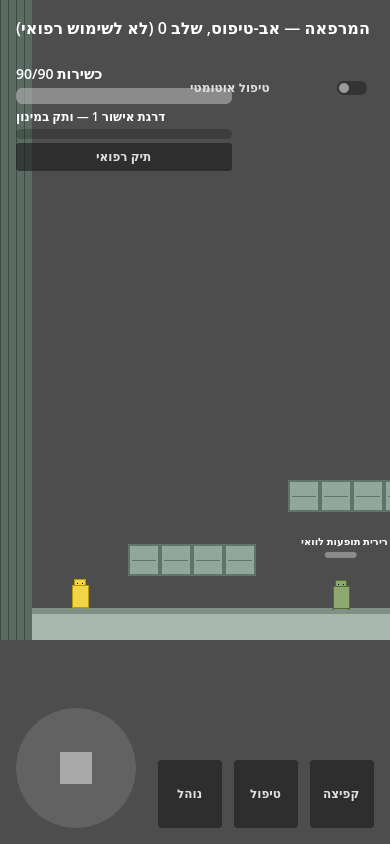
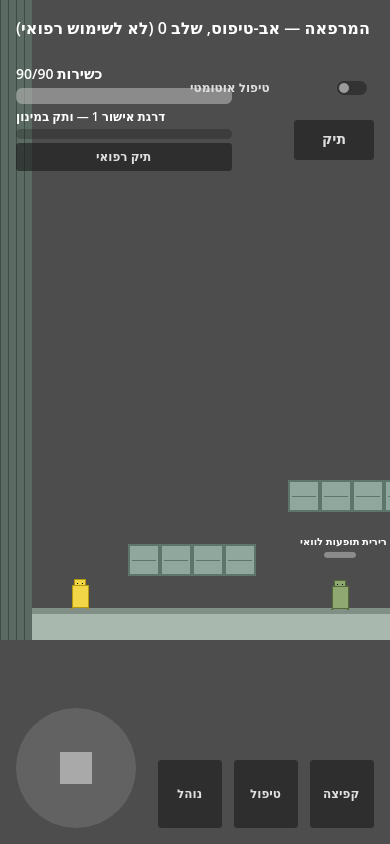
[phase-0][wiring+save] Wire inventory, gear, consumables and save/load into the game
- shared-rules combat.ts: heal(hp, max_hp, amount) (vitest + generated GDScript)
- LocalServer: set_gear_bonus() adds Inventory.equipped_stats() to leveled stats
  (shared _recompute_progression_stats used by register/set_progress/level-up),
  heal() via RulesCombat.heal with a healed signal, set_hp() for save restore
- ClinicLobby: routes Drop.picked_up into the bag (item_picked_up signal), player
  position get/set for saves
- main: Inventory + InventoryPanel instanced, equip → gear bonus, used consumable →
  server heal (stats.hp from items.yaml), autosave every 30 s / on level-up / on window
  close, load on boot; HUD refresh() + healed hook
- items.yaml: consumables carry their heal amount in stats.hp (Q5)
- Inventory open button moved below the auto-attack toggle (was on the title)
- Tests: client/tests/test_game_session.gd (5 end-to-end: pickup, equip, heal,
  quit-and-reload, corrupt save) → 147 GUT; vitest 76 + 7
- TASKS.md: T-0.10/T-0.11/T-0.13 done + QA reports, Q5; PROGRESS.md session 4

Claude-Session: https://claude.ai/code/session_01VW7S9PwdtjaazsarNCuKzi

Changed region(s): [[0.7385, 0.1232, 0.9846, 0.2156], [0.7692, 0.6161, 0.9846, 0.6469], [0.8308, 0.6777, 0.8615, 0.7085]]

diff --git a/packages/shared-rules/tests/combat.test.ts b/packages/shared-rules/tests/combat.test.ts
@@ -1,6 +1,6 @@
 import { describe, expect, it } from "vitest";
 import { CRIT_CHANCE, CRIT_MULT, DEF_SCALE, MIN_DAMAGE } from "../src/_constants.js";
-import { apply_damage, damage, effective_hp, is_dead } from "../src/combat.js";
+import { apply_damage, damage, effective_hp, heal, is_dead } from "../src/combat.js";
 import type { Combatant } from "../src/combat.js";
 import fixture from "./fixtures/combat.json" with { type: "json" };
 
@@ -135,5 +135,18 @@ describe("damage — QA edge cases", () => {
   });
   it("a roll of exactly 1 (out of range) is treated as a non-crit, not an error", () => {
     expect(damage(a, d, 1, 1)).toBe(damage(a, d, 1, 0.5));
+  });
+});
+
+describe("heal", () => {
+  it("adds and clamps to max_hp", () => {
+    expect(heal(10, 50, 15)).toBe(25);
+    expect(heal(45, 50, 15)).toBe(50);
+    expect(heal(50, 50, 1)).toBe(50);
+  });
+  it("floors fractional results and ignores negative amounts", () => {
+    expect(heal(10.4, 50, 0.5)).toBe(10);
+    expect(heal(10, 50, -20)).toBe(10);
+    expect(heal(0, 50, 0)).toBe(0);
   });
 });

diff --git a/packages/shared-rules/src/combat.ts b/packages/shared-rules/src/combat.ts
@@ -43,3 +43,8 @@ export function apply_damage(hp: number, dmg: number): number {
 export function is_dead(hp: number): boolean {
   return hp <= 0;
 }
+
+// Healing: hp after adding `amount`, floored, clamped to [0, max_hp]. Negative amounts never heal.
+export function heal(hp: number, max_hp: number, amount: number): number {
+  return Math.max(0, Math.min(max_hp, Math.floor(hp + Math.max(0, amount))));
+}

diff --git a/packages/shared-rules/src/_balance_data.ts b/packages/shared-rules/src/_balance_data.ts
@@ -139,7 +139,7 @@ export const ITEMS: ItemsData = {
       "stats": {
         "attack": 0,
         "defense": 0,
-        "hp": 0
+        "hp": 15
       }
     },
     "rubber_stamp_sword": {
@@ -194,7 +194,7 @@ export const ITEMS: ItemsData = {
       "stats": {
         "attack": 0,
         "defense": 0,
-        "hp": 0
+        "hp": 25
       }
     }
   },

diff --git a/TASKS.md b/TASKS.md
@@ -8,6 +8,7 @@
 - [ ] Q1: docs/GDD.md הוא placeholder. יש להעתיק את ה-GDD האמיתי לריפו. (blocks all game-designer work in Phase 0)
 - [ ] Q3: monsters.yaml has 2 ENGINEERING PLACEHOLDER monsters (lost_referral, form_27b) so T-0.9 can show 3 AI kinds. game-designer replaces names/numbers in T-0.7. OK? (not blocking)
 - [ ] Q4: classes.yaml `growth` per archetype and the retuned xp_curve.yaml are ENGINEERING PLACEHOLDERS (stim reaches level 10 in ~10 min, numb ~24). game-designer owns them in T-0.7/T-1.8. OK? (not blocking)
+- [ ] Q5: items.yaml has 5 placeholder items (2 weapons, head, body, consumable) with stats; consumables' `stats.hp` = heal amount. game-designer replaces in T-0.7. OK? (not blocking)
 - [ ] Q2: שם הריפו/תיקייה הוא `Mmorpg-drag`, ה-WORKPLAN מניח `hamirpaa`. להשאיר? (devops, not blocking)
 
 ## Phase -1 — תשתית
@@ -30,10 +31,10 @@
 - [ ] blocked T-0.7 | game-designer | YAML: Stim (5 skills, levels 1–10), 3 monsters, 10 items | test: validate_balance + balance_sim green | reason: waiting Q1 (real GDD) — skill names/mechanics are product decisions
 - [x] T-0.8 | godot-dev | "Crash" mechanic: after 4 consecutive hits → 2 s of ×2 damage taken (numbers from classes.yaml stim.mechanics.crash via shared-rules) | test: client/tests/test_local_server.gd + docs/playtest_notes.md
 - [x] T-0.9 | godot-dev | Monsters: simple AI (patrol/chase/attack), HP bar, death + drop | test: client/tests/test_monster_ai.gd (5) + docs/screenshots/arena_1920x1080.png (3 kinds; placeholders per Q3)
-- [ ] in-progress T-0.10 | godot-dev | XP, level-up, stats UI | test: level 10 in 15 min (simulation)
-- [ ] in-progress T-0.11 | godot-dev | Basic inventory + gear comparison | test: screenshot
+- [x] T-0.10 | godot-dev | XP, level-up, stats UI | test: client/tests/test_progression_flow.gd + test_hud.gd; balance_sim time-to-level-10 table (stim 10 min, others 12–24)
+- [x] T-0.11 | godot-dev | Basic inventory + gear comparison | test: docs/screenshots/inventory_390x844.png + client/tests/test_inventory*.gd (39) + test_game_session.gd
 - [ ] blocked T-0.12 | game-designer + godot-dev | NPC "רוקח": 3 dialogue lines + shop | test: buy/sell tested | reason: waiting Q1
-- [ ] in-progress T-0.13 | godot-dev | Local save (JSON) | test: quit-and-reload keeps state
+- [x] T-0.13 | godot-dev | Local save (JSON) | test: client/tests/test_game_session.gd::test_quit_and_reload_keeps_state (+ test_save_game.gd 13)
 - [ ] ready T-0.14 | devops | Export Android APK + Windows | test: APK runs (human confirms) | note: I18nBoot reads `res://../docs/content/*.yaml` — outside the .pck; export must copy content into client/ (or gen_rules emits a .gd table). Needs export templates (~1 GB download) + export_presets.cfg.
 
 ### QA reports
@@ -44,3 +45,5 @@
 - T-0.6: PASS — 50 new vitest tests (combat 18+3 QA, loot 10, movement 22); TS ↔ GDScript parity on 10 damage + 10 loot cases via fixtures/combat.json; QA added: power ≤ 0 / absurd defense / roll == 1 never go below MIN_DAMAGE. Translator gained `for…of` and `X[k] == null → X.get(k)` (ADR-012).
 - T-0.3/T-0.5: PASS — 19 new GUT tests; screenshots reviewed at 390×844 and 1920×1080. QA fixes after review: joystick overlapped the left button at 390 px (resized), title was a hardcoded string (now `ui.title` key), button labels clipped (shortened to one word each).
 - T-0.8/T-0.9: PASS — 15 new GUT tests; `RulesCombat.damage(` occurs in exactly one client file (local_server.gd, ADR-013). QA added: self-attack and unknown-id intents are ignored. Note: monsters are not yet placed in clinic_lobby.tscn (arena.tscn only) — wire-up is part of T-0.10 (XP flow needs kills on the real map).
+- T-0.10: PASS — 17 GUT tests; xp only to the killer, monsters never level, heal-to-full on level-up is a documented phase-0 default. HUD reviewed at both resolutions.
+- T-0.11/T-0.13: PASS — 52 module tests + 5 end-to-end session tests (drop → bag, equip → server attack, consumable → server heal, quit-and-reload restores level/hp/bag/gear/position, corrupt save boots fresh). QA fixes: consumables had hp 0 (nothing could heal); inventory button overlapped the title at 390 px. Lead wired the modules (LocalServer.set_gear_bonus/heal/set_hp, ClinicLobby drop routing, main.gd autosave every 30 s + on level-up + on window close).

diff --git a/PROGRESS.md b/PROGRESS.md
@@ -1,5 +1,22 @@
 # PROGRESS
 
+## Session 4 — 2026-09-14 — Phase 0: progression, HUD, inventory, save
+**Done**
+- T-0.10 XP/level-up/HUD: LocalServer grants xp to the killer, levels via RulesXp, stats via RulesProgression (new shared-rules module + classes.yaml growth, Q4); 6 monsters live on clinic_lobby; HUD with HP/XP bars, stats panel, level-up flash.
+- T-0.11 inventory + gear comparison and T-0.13 JSON save, wired end to end: drops → bag, equip → LocalServer.set_gear_bonus, consumable → LocalServer.heal (new RulesCombat.heal), autosave (30 s / level-up / window close), load on boot. 5 placeholder items (Q5).
+- XP curve retuned (was ~100 min to level 10, now 10–24 min by archetype); balance_sim prints a time-to-level table.
+- Totals: vitest 76 + 7, GUT 147 (was 71). check.sh GREEN in strict mode. Screenshots refreshed.
+
+**Next**
+- T-0.14 export (Android APK + Windows): needs export templates + export_presets.cfg + moving docs/content YAML into the .pck (I18nBoot reads res://../docs today).
+- T-0.7 / T-0.12 remain blocked on Q1 (real GDD). Then Phase 0 Human Checkpoint: 20-minute mobile playtest ("is it fun?").
+- Human: answer Q1–Q5, playtest docs/playtest_notes.md, open the first PR.
+
+**Broken / not verified**
+- Duplicate agents were accidentally launched in this session (the first pair survived a container reset I assumed had killed them); one duplicate briefly overwrote inventory.gd before being stopped. Final files were re-verified by the owning agent and by the full check. Lesson: check `git status` for agent output before relaunching.
+- Balance: numb takes ~24 min to level 10 (placeholder numbers).
+- Consumables heal via their `stats.hp`; no cooldown or use animation yet.
+
 ## Session 3 — 2026-09-14 — Phase 0: map, mobile controls, monsters, crash
 **Done**
 - T-0.3 clinic_lobby map (TileMapLayer 60×20, generated tileset, 8 jumpable platforms) + T-0.5 touch controls (joystick, 3 buttons, auto-attack toggle; Hebrew labels via I18nBoot autoload). Screenshots in docs/screenshots/.
